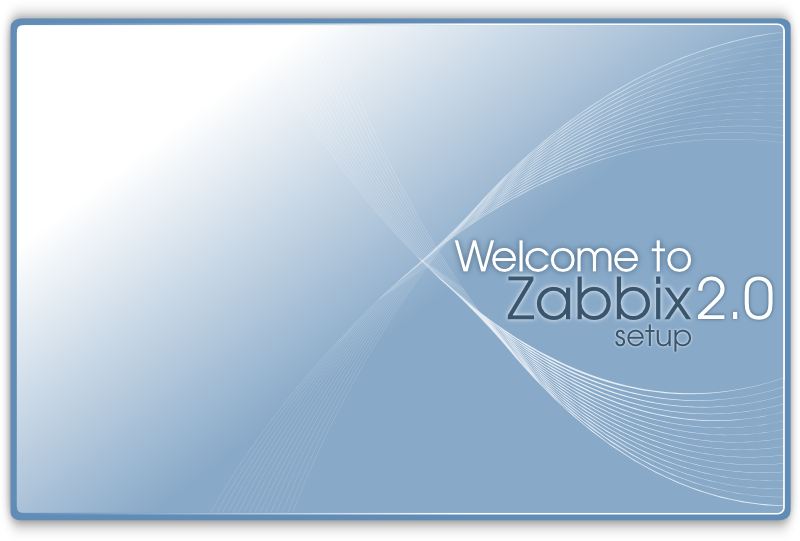
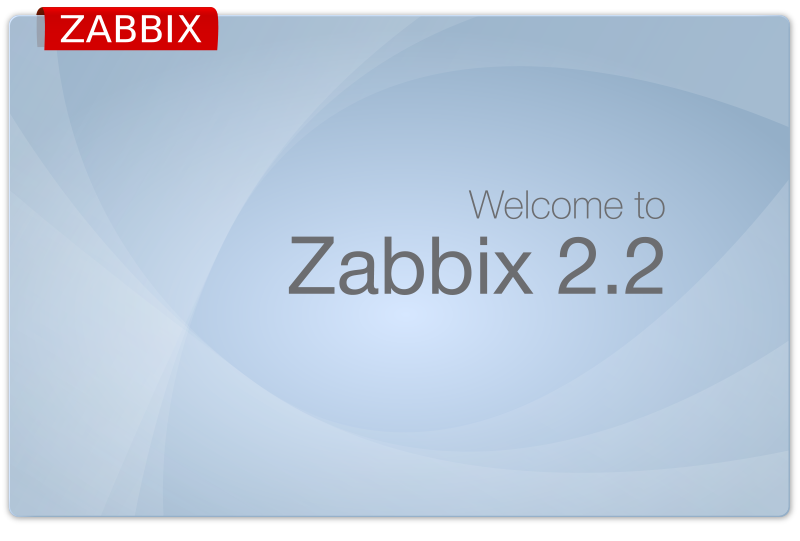
..F....... [ZBX-7065] changed the design of the setup

diff --git a/ZBX-7065/frontends/php/styles/pages.css b/ZBX-7065/frontends/php/styles/pages.css
@@ -228,15 +228,13 @@ div.trigger_displaying_form_col { width: 12em; zoom: 1; *display: inline; }
 .setupBG { background: #AABBCC url(../images/gradients/texture_diagonal.gif); }
 div.setup_wizard { margin: 15px auto 0; width: 800px; height: 541px; background: url(../images/general/setup/background.png) no-repeat; }
 div.setup_wizard_welcome { background: url(../images/general/setup/welcome_screen.png) no-repeat; }
-div.setup_wizard_licence { margin-top: 80px; margin-left: 10px; text-align: left; }
-div.setup_wizard div.left { float: left; margin: 40px 0 0 20px; width: 220px; }
-div.setup_wizard div.setup_logo { margin-left: 10px; height: 53px; background: url(../images/general/setup/logo.png) no-repeat; }
-div.setup_wizard div.setup_version { margin-left: 20px; color: #608CB6; font-weight: bold; font-size: 16px; }
-div.setup_wizard div.left_menu { margin: 50px 0 0 }
+div.setup_wizard_licence { margin-top: 110px; margin-left: 10px; text-align: left; }
+div.setup_wizard div.left { float: left; margin-left: 20px; width: 220px; }
+div.setup_wizard div.left_menu { margin-top: 120px; }
 div.setup_wizard div.left_menu ul { list-style-type: none }
-div.setup_wizard div.left_menu li { margin: 1px 0 0; padding: 5px; color: #608cb6; font-weight: bold; font-size: 12px; }
+div.setup_wizard div.left_menu li { padding: 7px 7px 7px 10px; color: #608cb6; font-weight: bold; font-size: 12px; }
 div.setup_wizard div.left_menu li.current { background: #608CB6; color: #fff; }
-div.setup_wizard div.left_menu li.completed { background: #A4BDD5; color: #BDE5EE; }
+div.setup_wizard div.left_menu li.completed { background: #C3D4E6; color: #777; }
 div.setup_wizard div.right { float: left; margin: 40px 0 0; width: 530px; }
 div.setup_wizard div.right div.setup_title { padding: 10px; background: #608CB6; color: #FFF; text-align: left; font-size: 20px; }
 div.setup_wizard div.right div.blank_title { height: 38px }

diff --git a/ZBX-7065/frontends/php/include/setup.inc.php b/ZBX-7065/frontends/php/include/setup.inc.php
@@ -101,8 +101,6 @@ class CSetupWizard extends CForm {
 
 	function bodyToString($destroy = true) {
 		$left = new CDiv(null, 'left');
-		$left->addItem(new CDiv(null, 'setup_logo'));
-		$left->addItem(new CDiv(ZABBIX_VERSION, 'setup_version'));
 		$left->addItem(new CDiv($this->getList(), 'left_menu'));
 
 		$link1 = new CLink('www.zabbix.com', 'http://www.zabbix.com/', null, null, true);
